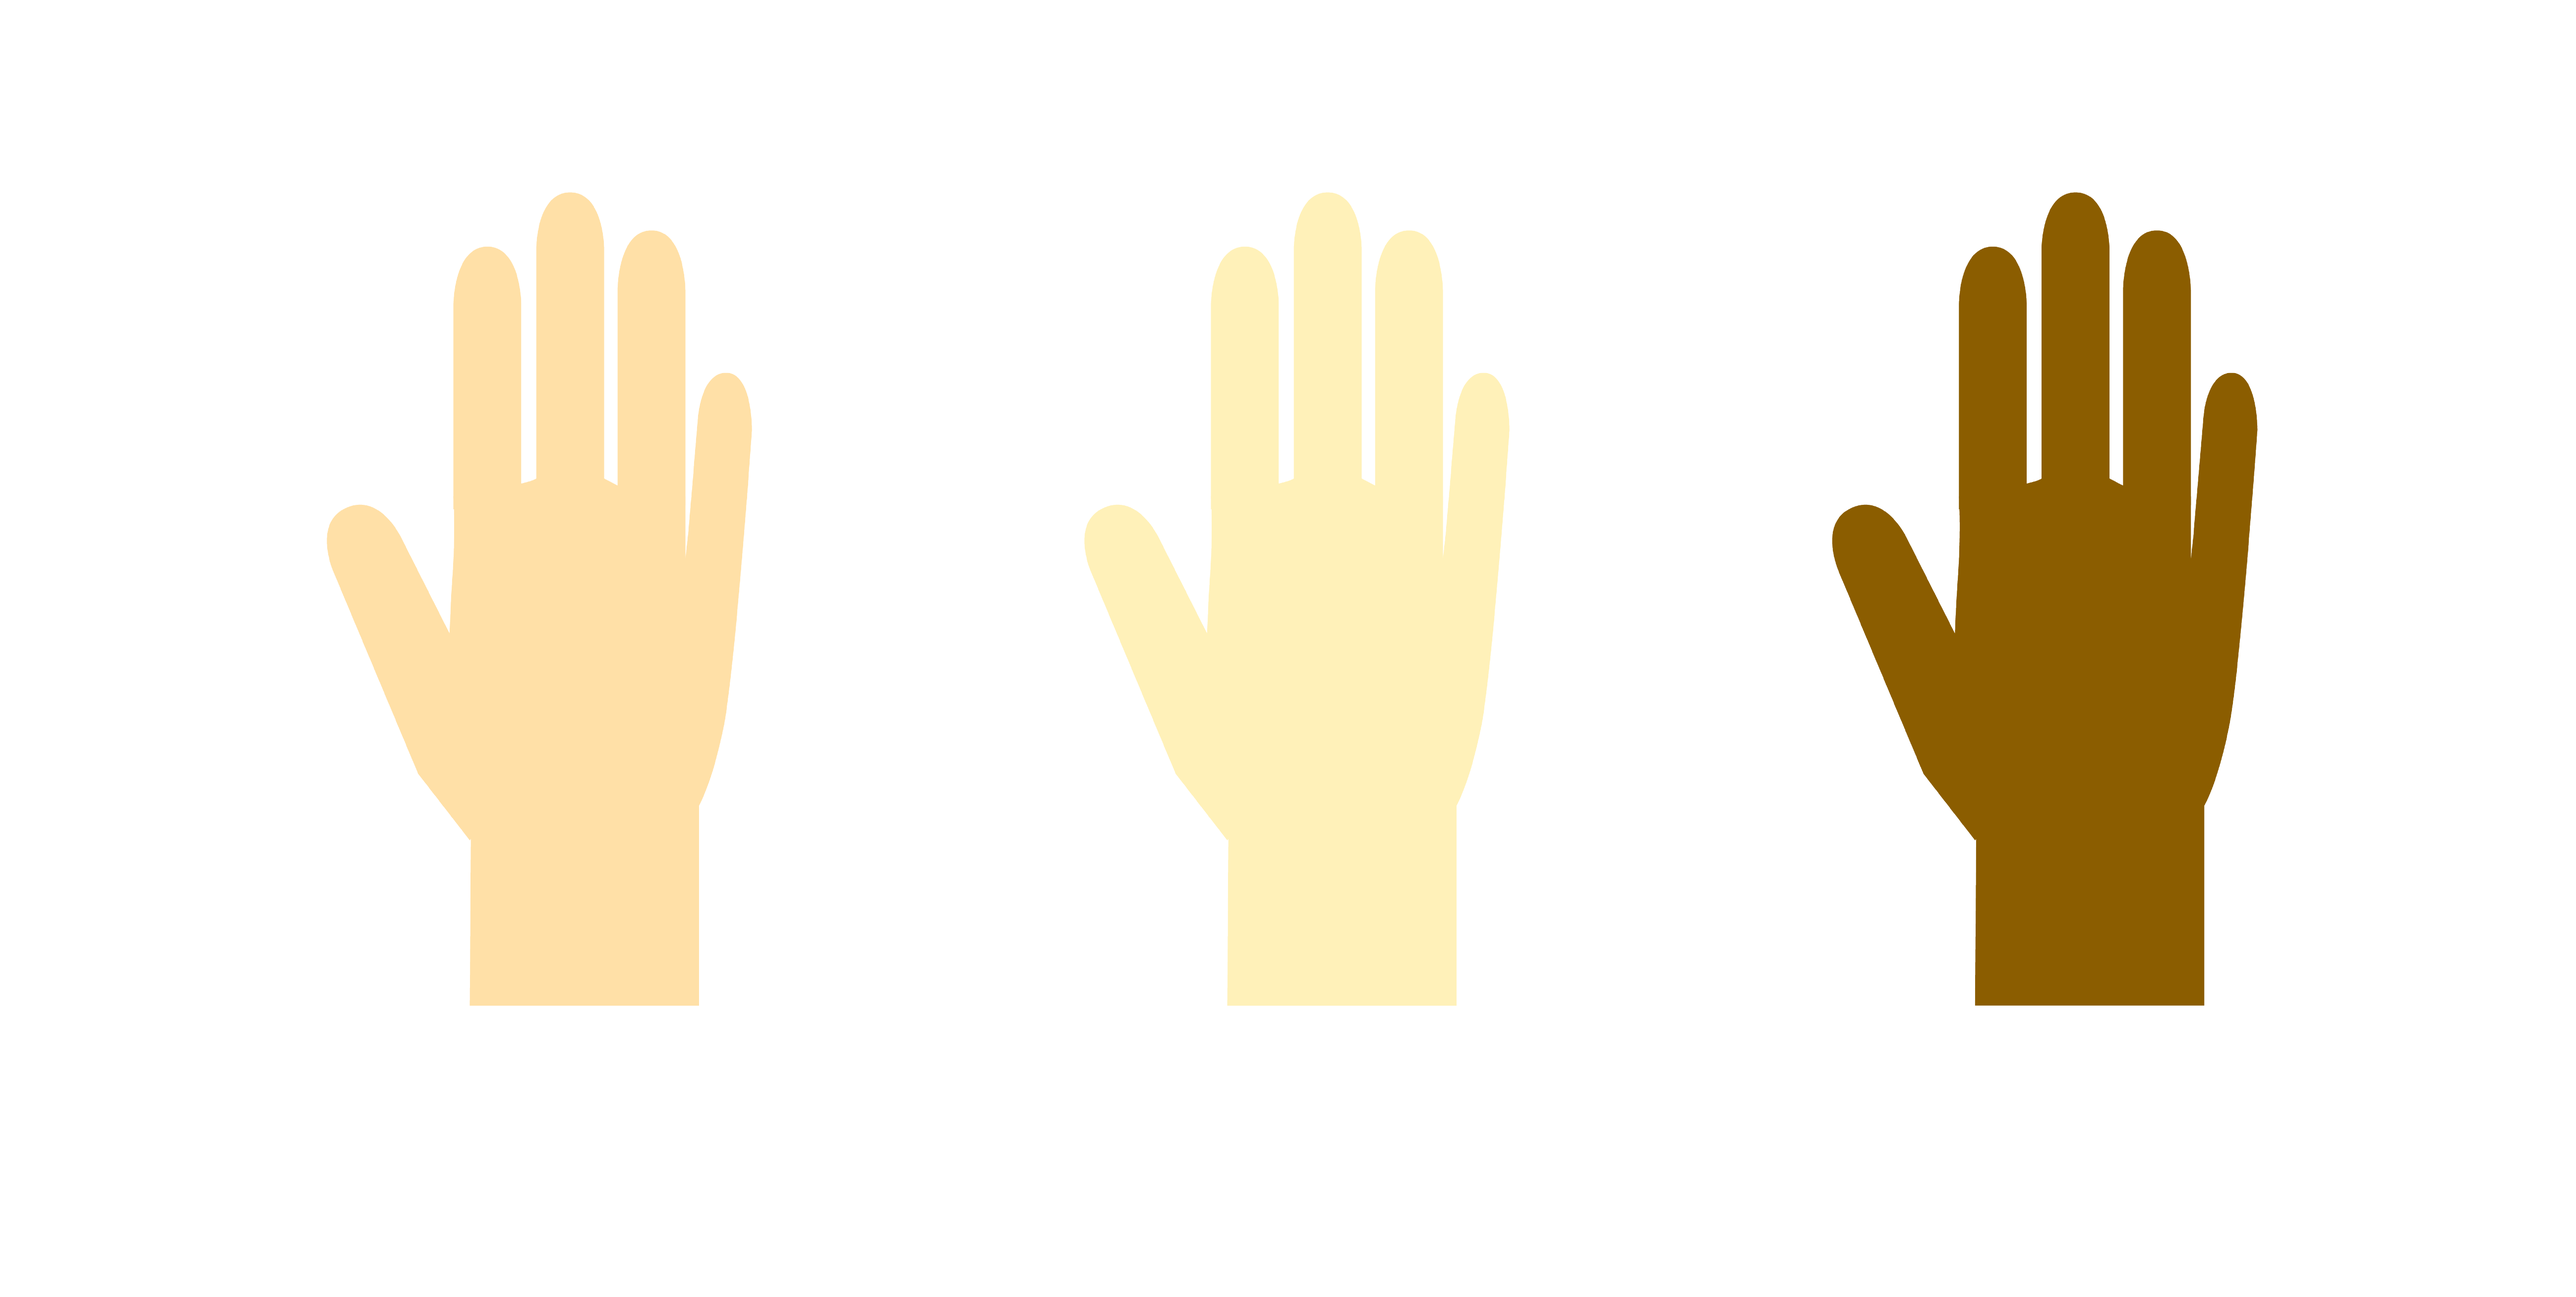
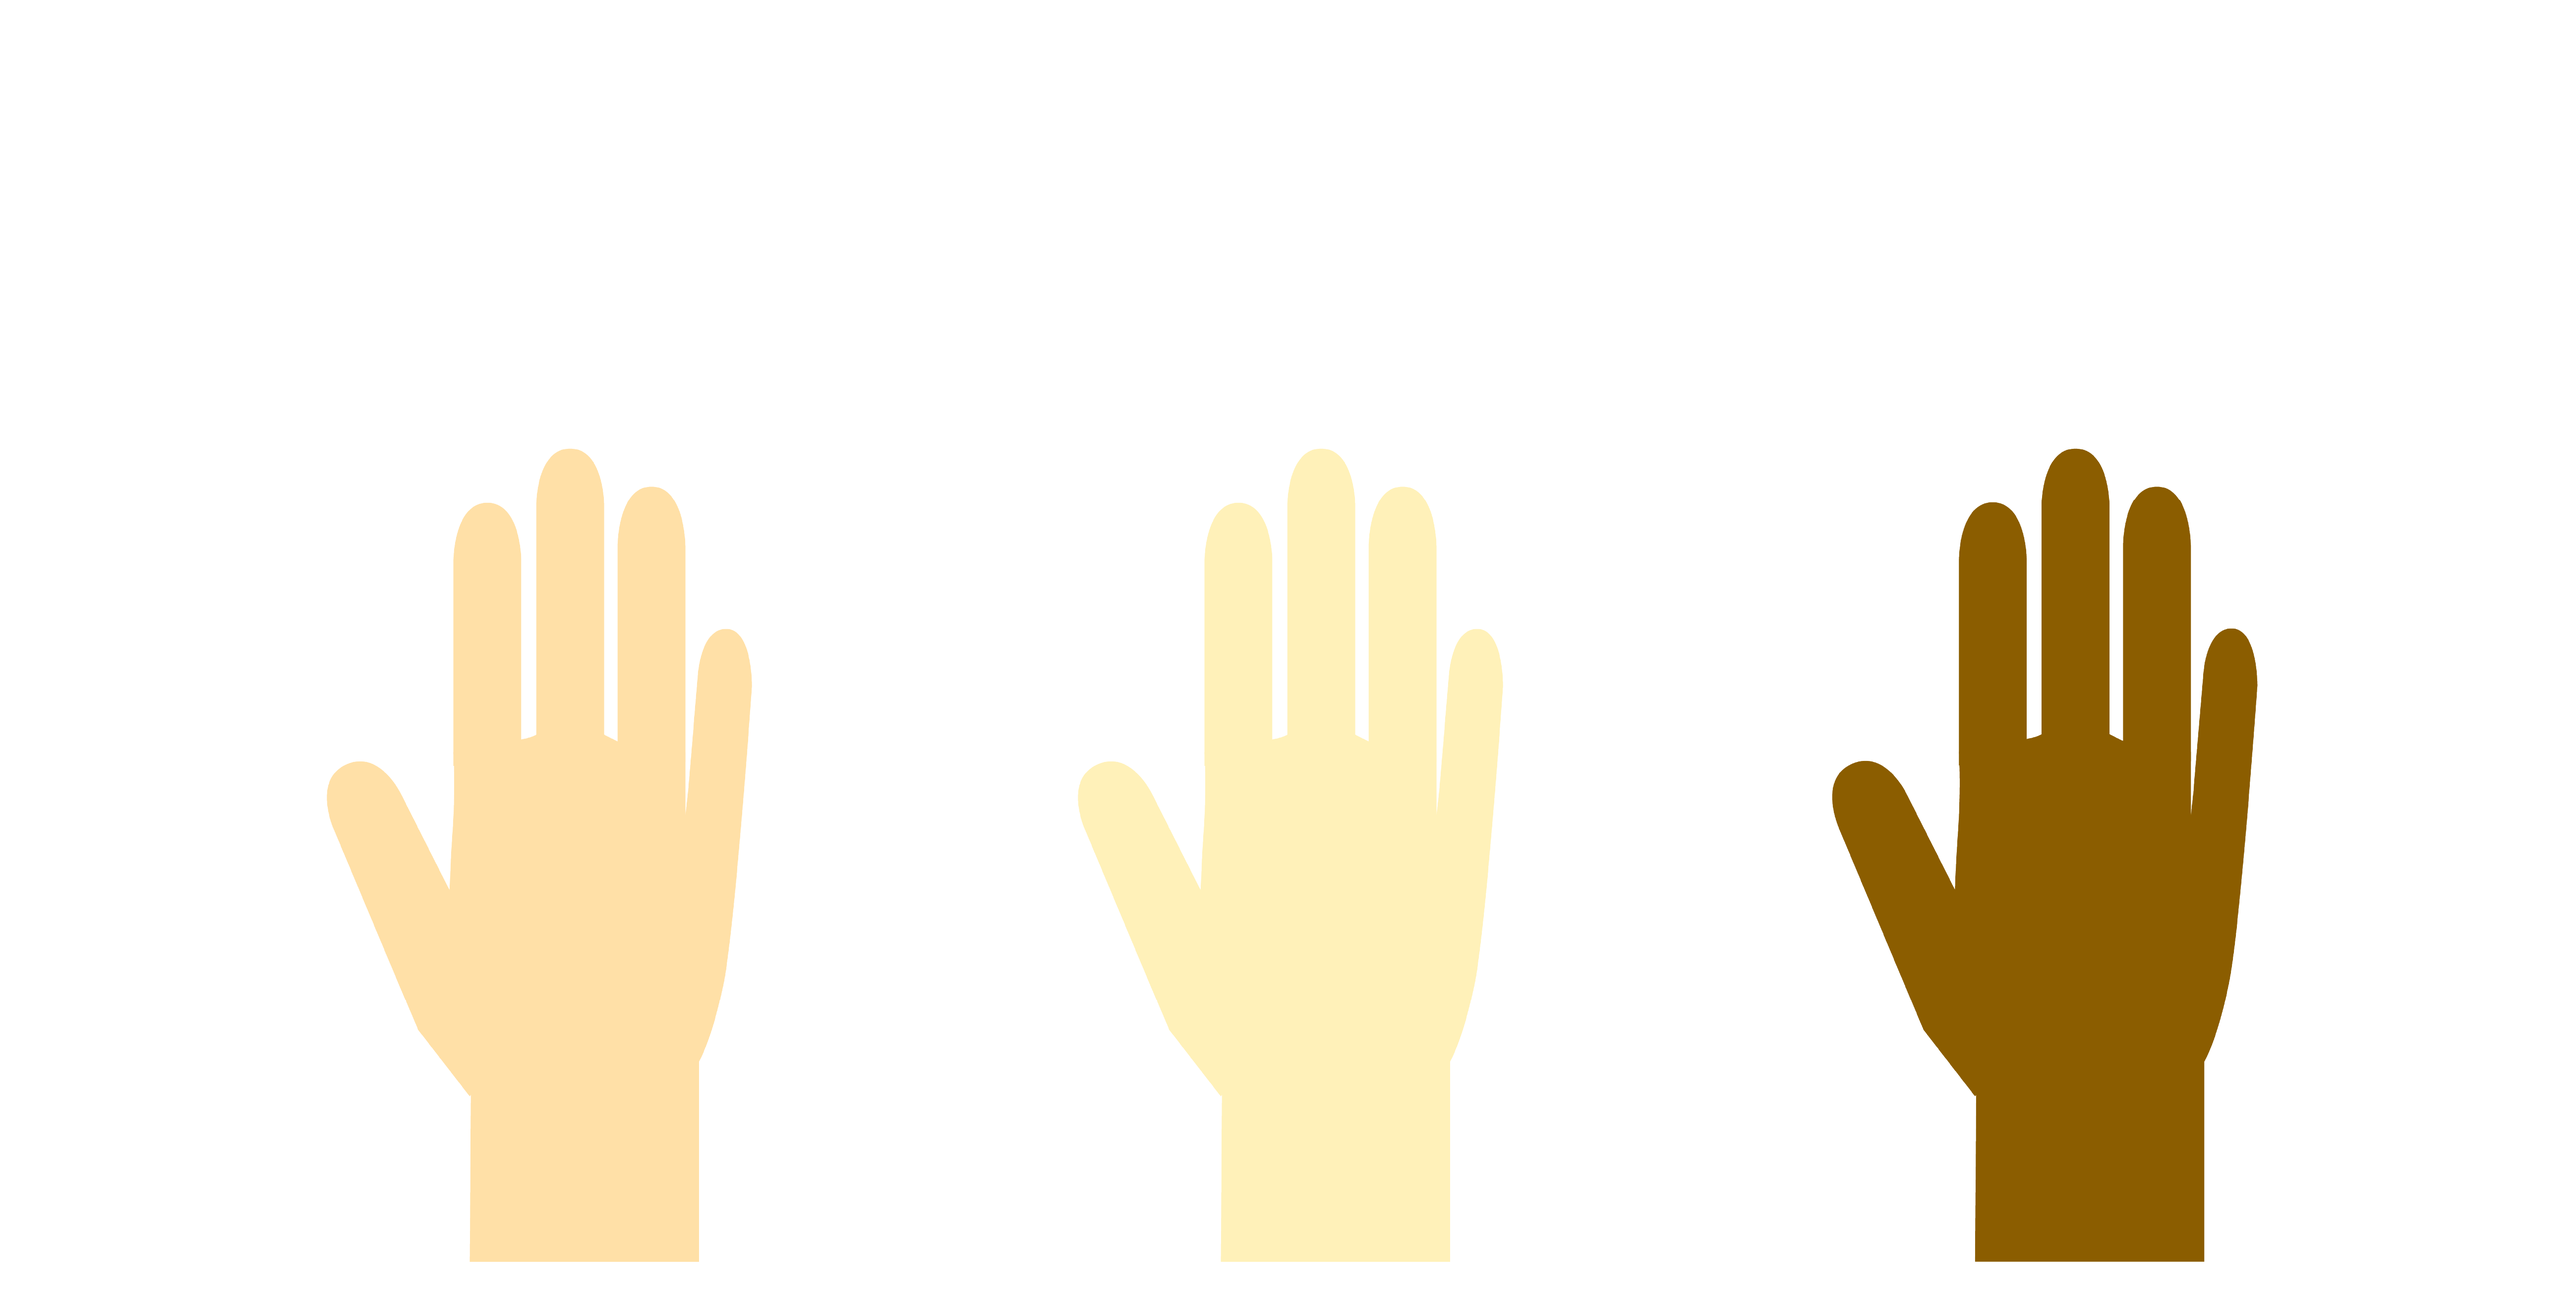
0718 17:20

Changed region(s): [[0.1247, 0.1547, 0.3118, 0.9901], [0.6859, 0.1547, 0.873, 0.9901], [0.4053, 0.1547, 0.5924, 0.9901]]

diff --git a/docs/style.css b/docs/style.css
@@ -4,8 +4,13 @@
     
 }
 
+.wrap{
+    overflow:hidden;
+}
+
 body{
     position:relative;
+    
 }
 
 #header{
@@ -40,18 +45,59 @@ body{
 .thumbnail2{
     width:40%;
     aspect-ratio:47/55;
-
     text-align: center;
     margin-left: 20%;
-    
     transition: .7s ease-in-out ;
-    
 }
+
+.container{
+position:relative;
+
+}
+
+.color{
+    width:50%;
+    aspect-ratio:1/1;
+    text-align:center;
+    transition: .7s ease-in-out;
+    
+    align-items:center;
+    opacity:0.5;
+}
+
+.ithas{
+    width:50%;
+    aspect-ratio:14/3;
+    text-align:center;
+    transition: .7s ease-in-out;
+    align-items:center;
+}
+
+.exp{
+    width:50%;
+    aspect-ratio:7/2;
+    text-align:center;
+    align-items:center;
+    transition: .7s ease-in-out;
+    margin-top:70%;
+}
+
+.each{
+    width:60%;
+    aspect-ratio:7/2;
+    margin-left: 20%;
+    align-items:center;
+    margin-top:95%;
+    position:absolute;
+}
+
+
 
 .fadein {
     z-index:10;
-    transform: translateX(70%);
-    transition: all .3s ease-in;
+    transform: translateX(10%);
+    transition: all .7s ease-in;
+    
   }
   /* 画面に入った時の動き */
   .fadein.blockIn {
@@ -61,20 +107,119 @@ body{
 .fadein2 {
     z-index:20;
     transform: translateY(20%);
-    transition: all .3s ease-in;
+    transition: all .7s ease-in;
   }
   /* 画面に入った時の動き */
   .fadein2.blockIn {
     transform: translateY(-20%);
   }
 
+  .fadein3 {
+    z-index:30;
+    transform: translate(80%, 80%);
+    transition: all .7s ease-in;
+    position:absolute;
+  }
+  /* 画面に入った時の動き */
+  .fadein3.blockIn {
+    transform: translate(50%, 50%);
+  }
+
+  .fadein4 {
+    z-index:70;
+    transform: translate(20%, 30%);
+    transition: all .7s ease-in;
+    position:absolute;
+  }
+  /* 画面に入った時の動き */
+  .fadein4.blockIn {
+    transform: translate(50%,50%);
+  }
+
+  .fadein5 {
+    z-index:60;
+    transform: translate(90%,10%);
+    transition: all .7s ease-in;
+    position:absolute;
+  }
+  /* 画面に入った時の動き */
+  .fadein5.blockIn {
+    transform: translate(50%,50%);
+  }
+
+  .fadein6 {
+    z-index:50;
+    transform: translate(40%,70%);
+    transition: all .7s ease-in;
+    position:absolute;
+  }
+  /* 画面に入った時の動き */
+  .fadein6.blockIn {
+    transform: translate(50%,50%);
+  }
+
+  .fadein7 {
+    z-index:40;
+    transform: translate(10%,80%);
+    transition: all .7s ease-in;
+    position:absolute;  
+}
+
+  /* 画面に入った時の動き */
+  .fadein7.blockIn {
+    transform: translate(50%,50%);
+  }
+
+  .fadein8 {
+    z-index:80;
+    transform: translate(40%,40%);
+    transition: all .7s ease-in;
+    position:absolute;
+  }
+  /* 画面に入った時の動き */
+  .fadein8.blockIn {
+    transform: translate(50%,50%);
+  }
+
+  .fadein9 {
+    z-index:90;
+    transform: translate(20%,10%);
+    transition: all .7s ease-in;
+    position:absolute;
+  }
+  /* 画面に入った時の動き */
+  .fadein9.blockIn {
+    transform: translate(50%,50%);
+  }
+
+  .fadein10 {
+    z-index:100;
+    transform: translate(100%,50%);
+    transition: all .7s ease-in;
+    position:absolute;
+  }
+  /* 画面に入った時の動き */
+  .fadein10.blockIn {
+    transform: translate(50%,50%);
+  }
+
+  .fadein11 {
+    z-index:110;
+    transform: translate(0%,50%);
+    transition: all .7s ease-in;
+    position:absolute;
+  }
+  /* 画面に入った時の動き */
+  .fadein11.blockIn {
+    transform: translate(50%,50%);
+  }
 
 
 .box{
     display:flex;
     width:100%;
     justify-content:center;
-    
+    margin-top:120%;
     text-align: center;
 }
 
@@ -82,7 +227,7 @@ body{
 .hands{
    
     width:100%;
-    padding:10%;
+    
     aspect-ratio:1247/628;
     z-index:20;
     position:absolute;
@@ -93,6 +238,7 @@ body{
 
 .boxes1{
     border:1px solid #fff;
+    
     margin:2%;
     width:25%;
     aspect-ratio:8/15;

diff --git a/docs/index.js b/docs/index.js
@@ -37,3 +37,63 @@ $(function() {
       });
     });
   });
+
+  $(function() {
+    // ↓windowがスクロールされた時に実行する処理
+    $(window).scroll(function() {
+      // ↓複数のオブジェクトに対して繰り返し処理を行う
+      $(".color").each(function() {
+        // ↓要素が画面上に表示されたかどうかを判定させる変数を定義----------
+        var scroll = $(window).scrollTop(); // 画面トップからのスクロール量
+        var blockPosition = $(this).offset().top; // 画面トップから見たブロックのある位置
+        var windowHeihgt = $(window).height(); // ウィンドウの高さ
+        // ↓if式で計算する流れ----------
+        // 手順① 表示させたいブロックの位置している高さ - ウィンドウの高さ
+        // 手順② スクロール量が①より多くなった時＝要素が画面上に表示されたと認識
+        // 手順③ 要素に「blockIn」クラスを付与。動きはCSSで制御。
+        if (scroll > blockPosition - windowHeihgt + 300) {
+          $(this).addClass("blockIn");
+        }
+      });
+    });
+  });
+
+  $(function() {
+    // ↓windowがスクロールされた時に実行する処理
+    $(window).scroll(function() {
+      // ↓複数のオブジェクトに対して繰り返し処理を行う
+      $(".ithas").each(function() {
+        // ↓要素が画面上に表示されたかどうかを判定させる変数を定義----------
+        var scroll = $(window).scrollTop(); // 画面トップからのスクロール量
+        var blockPosition = $(this).offset().top; // 画面トップから見たブロックのある位置
+        var windowHeihgt = $(window).height(); // ウィンドウの高さ
+        // ↓if式で計算する流れ----------
+        // 手順① 表示させたいブロックの位置している高さ - ウィンドウの高さ
+        // 手順② スクロール量が①より多くなった時＝要素が画面上に表示されたと認識
+        // 手順③ 要素に「blockIn」クラスを付与。動きはCSSで制御。
+        if (scroll > blockPosition - windowHeihgt + 300) {
+          $(this).addClass("blockIn");
+        }
+      });
+    });
+  });
+
+  $(function() {
+    // ↓windowがスクロールされた時に実行する処理
+    $(window).scroll(function() {
+      // ↓複数のオブジェクトに対して繰り返し処理を行う
+      $(".exp").each(function() {
+        // ↓要素が画面上に表示されたかどうかを判定させる変数を定義----------
+        var scroll = $(window).scrollTop(); // 画面トップからのスクロール量
+        var blockPosition = $(this).offset().top; // 画面トップから見たブロックのある位置
+        var windowHeihgt = $(window).height(); // ウィンドウの高さ
+        // ↓if式で計算する流れ----------
+        // 手順① 表示させたいブロックの位置している高さ - ウィンドウの高さ
+        // 手順② スクロール量が①より多くなった時＝要素が画面上に表示されたと認識
+        // 手順③ 要素に「blockIn」クラスを付与。動きはCSSで制御。
+        if (scroll > blockPosition - windowHeihgt + 300) {
+          $(this).addClass("blockIn");
+        }
+      });
+    });
+  });

diff --git a/docs/index.html b/docs/index.html
@@ -11,6 +11,7 @@
     <title>hooonokaxx</title>
   </head>
   <body>
+      <div class="wrap">
    <header id="header">
        
      <p>
@@ -20,23 +21,33 @@
 
    <main>
 
-    <div class="js-trigger">
-    <ul>
+   <ul>
         <img src="images/intro1.png" class="thumbnail fadein">
-        <img src="images/intro2.png" class="thumbnail2 fadein">
+        <img src="images/intro2.png" class="thumbnail2 fadein2">
     </ul>
+
+    <div class="container">
+    <p>
+        <img src="images/red.png" class="color fadein3">
+        <img src="images/orange.png" class="color fadein4">
+        <img src="images/yellow.png" class="color fadein5">
+        <img src="images/green.png" class="color fadein6">
+        <img src="images/blue.png" class="color fadein7">
+        <img src="images/darkblue.png" class="color fadein8">
+        <img src="images/purple.png" class="color fadein9">
+        <img src="images/ithas.png" class="ithas fadein10">
+    </p>
     </div>
+
+    <div>
+        <img src="images/exp.png" class="exp fadein11">
         
-    
-    
-   <ul>
-    You can scroll down these boxes each!
-   </ul>
-   <ul>
-    What's gonna happen next?!
-   </ul>
-   
-    
+        
+    </div>
+    <div>
+    <img src="images/each.png" class="each">
+    </div>
+ 
 
        <section id="nails" class="box" data-section-name="nails">
         <img src="images/hands.png" class="hands">
@@ -93,4 +104,5 @@
  
    
    <script src="index.js"></script>
+   </div>
 </body>
